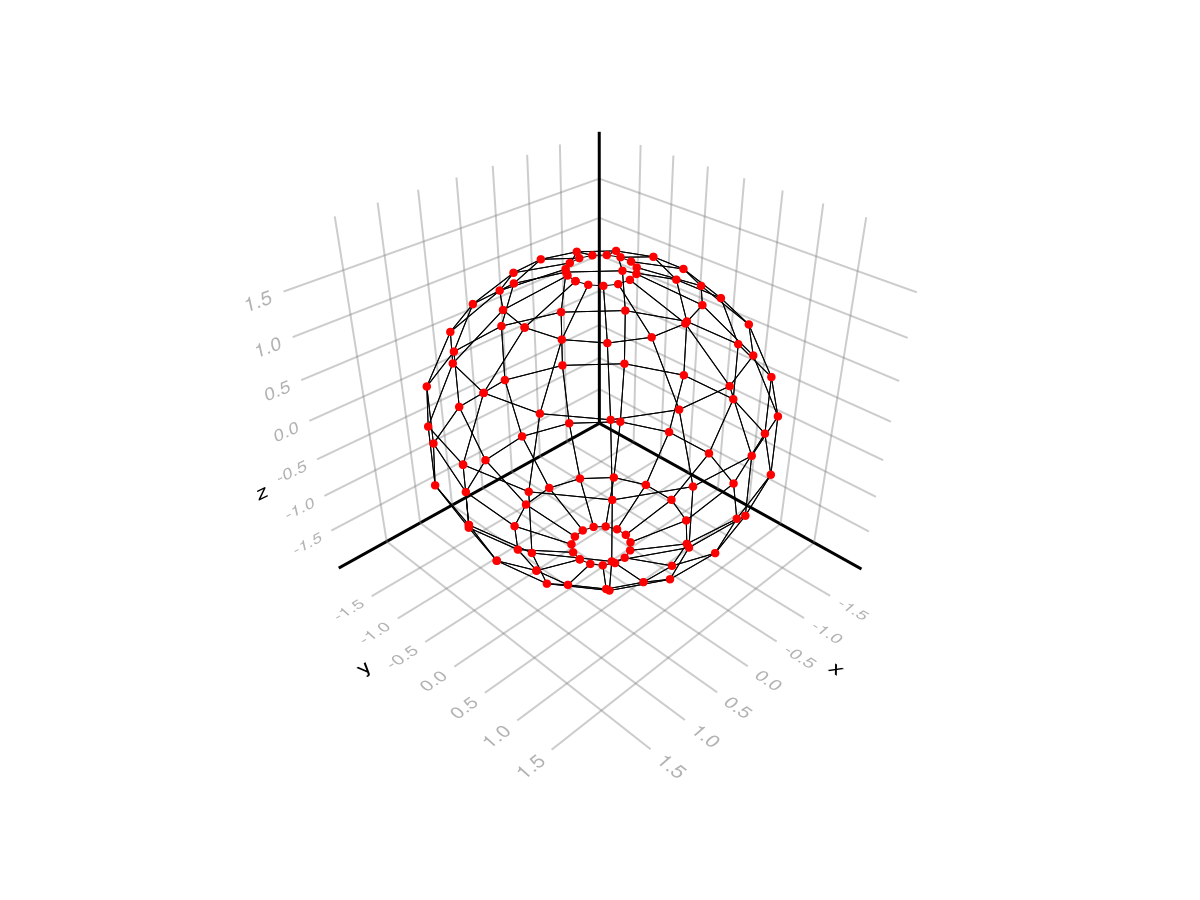
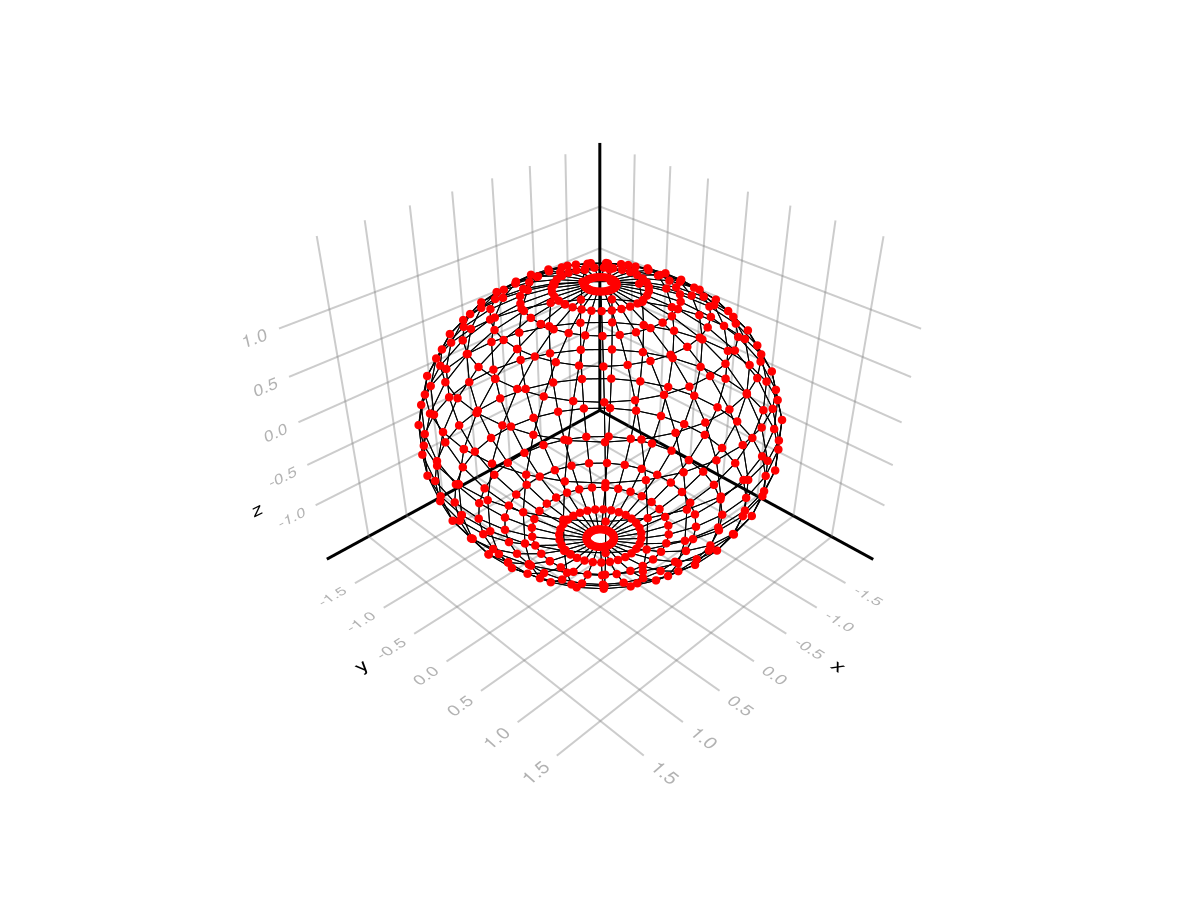
README: Increase spin in example

diff --git a/README.md b/README.md
@@ -56,7 +56,7 @@ using StaticArrays
 function kerr_schild_metric(p::SVector{3})
     x, y, z = p
     M = 1.0
-    a = 0.6
+    a = 0.8
     ks = KerrSchild(M, a)
     t = 0
     g, ∂g = dmetric(ks, SVector{4}(t, x, y, z))
@@ -74,12 +74,12 @@ Next we call the horizon finder:
 
 ```julia
 x₀ = SVector{3}(0.0, 0.0, 0.1)
-N = 8
+N = 16
 r = 2.0
 atol = 1.0e-8
 maxiters = 100
-origin, hlm = find_horizon(kerr_schild_metric, x₀, N, r, atol, maxiters)
-pts = horizon_points(origin, hlm)
+AH = find_horizon(kerr_schild_metric, x₀, N, r, atol, maxiters)
+pts = horizon_points(AH.origin, AH.hlm)
 ```
 
 The number of points (and the number of multipoles) depends on the chosen `N`.